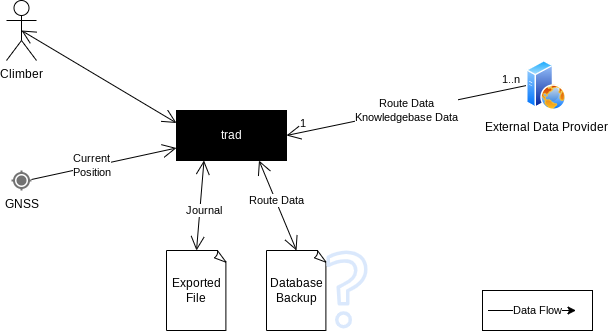
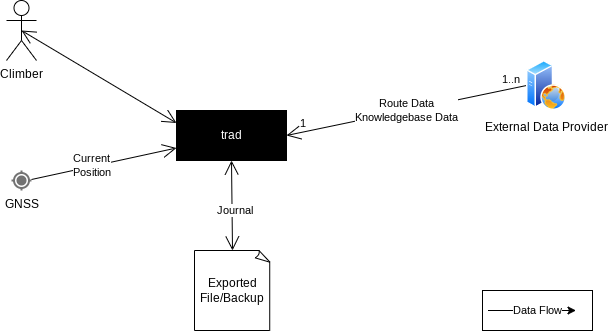
📝 Update context diagrams

diff --git a/doc/architecture.md b/doc/architecture.md
@@ -78,9 +78,14 @@ licensed as FLOSS (free, libre and open source software).
 
 ## 3.1 Business context
 
+The following diagram shows the system context and the data flows to and from external entities.
+
 ![Business context diagram, showing external data flows](contextview_business.png)
 
 ## 3.2 Technical context
+
+The following diagram shows the dependencies between *trad* and external systems, along with the
+interfaces we plan or expect to use.
 
 ![Technical context diagram, showing external dependencies](contextview_technical.png)
 
